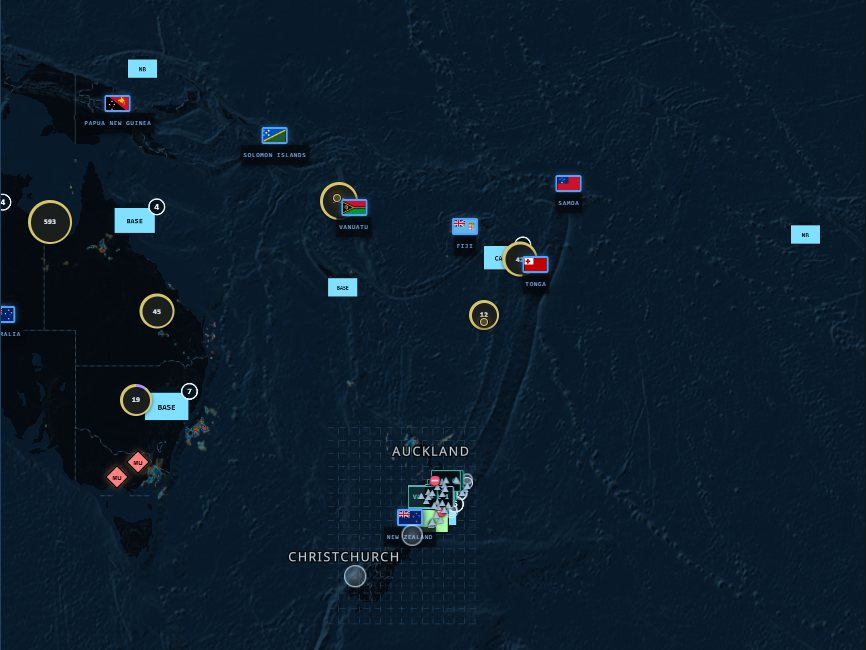
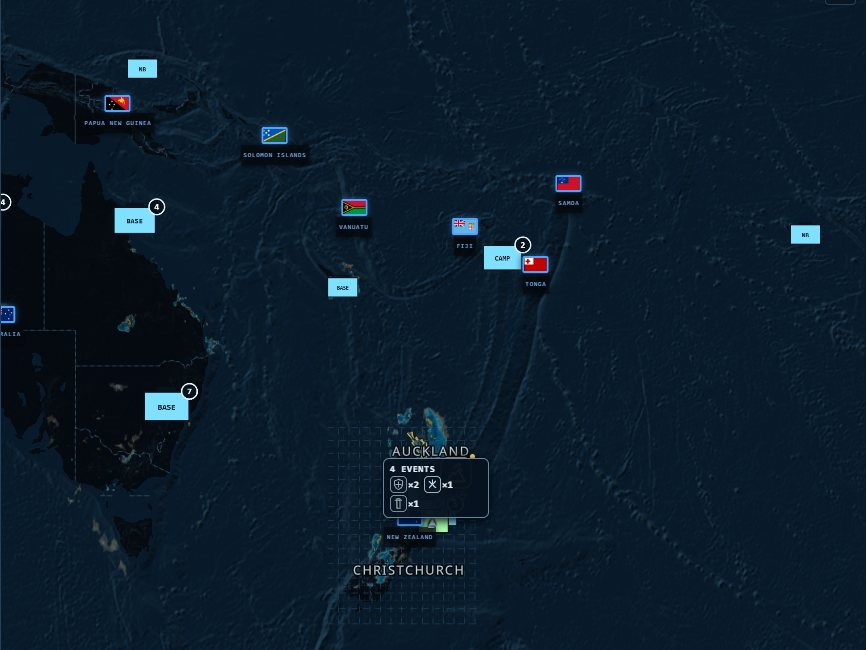
Update TREC case study with November 2026 changes and new screenshots
Refresh the dashboard, map and panel screenshots; add incident cluster
card, live election desk and customise-dashboard images; describe the
real-world-only map, significance filter, election desk, live TV
failover, screen-fitted layouts, USB installer and user guide.

diff --git a/projects/trec/index.html b/projects/trec/index.html
@@ -28,4 +28,4 @@
   "keywords": "Docker Compose (8-service stack), Meilisearch (hybrid full-text + vector search), Kiwix (offline ZIM/Wikipedia mirror), SearXNG (privacy-respecting meta-search), FastAPI + SQLite (countries capability API), Ollama / llama3.2:1b (local result summarization), Python (watchdog-based document ingest daemon), nginx (frontend + API proxy)",
   "about": "Research on a given topic normally means switching between three unconnected tools: a handful of local PDFs and Word docs, a reference site half-remembered, and a general web search to fill the gaps — none of which know about each other, and none guaranteed to work without a live internet connection. For research that's geopolitical or defence-adjacent, sending every query to a cloud search engine or AI service isn't a comfortable default either.",
   "result": "In daily use, one query returns local documents, offline-wiki hits, and live web results side by side, filterable by source; a mentioned country surfaces its capability card automatically; and a local model reads back a short summary of the top hits before any of them are opened individually. Dropping a new document into the inbox folder makes it searchable within seconds with no manual re-indexing step. It runs entirely on hardware already owned, with no account, no telemetry, and no functional difference between the wifi being on or off — visible below in a real query (\"Type 62 light tank maximum speed\") pulling an AI overview and offline-wiki hits, with the underlying Kiwix-served Wikipedia article open behind it."
-}</script> <main class="case-study" data-astro-cid-ovxcmftc> <header class="case-study-header" data-astro-cid-ovxcmftc><div class="header-badges" data-astro-cid-ovxcmftc><span class="status-badge status--ongoing" data-astro-cid-ovxcmftc>Ongoing</span></div><h1 data-astro-cid-ovxcmftc>TREC — Trentham Operations Monitor</h1><div class="case-study-meta" data-astro-cid-ovxcmftc><span class="meta-item" data-astro-cid-ovxcmftc>Creator — Public-data integration and frontend engineering</span><span class="meta-separator" data-astro-cid-ovxcmftc>·</span><span class="meta-item" data-astro-cid-ovxcmftc>2026</span><span class="meta-separator" data-astro-cid-ovxcmftc>·</span><span class="meta-item" data-astro-cid-ovxcmftc>5 min read</span></div><p class="outcome-summary" data-astro-cid-ovxcmftc>A New Zealand-first situational-awareness dashboard combining a geographic map, animated weather radar, earthquakes, road information, public defence reference locations, news, radio, webcams and selected international OSINT datasets.</p></header><section class="image-gallery" data-astro-cid-ovxcmftc><img src="/images/projects/trec-dashboard.jpg" alt="TREC dashboard: Trentham-centred map with weather, radar, earthquakes and event panels" loading="lazy" data-astro-cid-ovxcmftc><img src="/images/projects/trec-map-local.jpg" alt="Map at local (Trentham / Upper Hutt) level with grouped markers and radar" loading="lazy" data-astro-cid-ovxcmftc><img src="/images/projects/trec-map-nz.jpg" alt="Map at New Zealand level with grouped markers and radar" loading="lazy" data-astro-cid-ovxcmftc><img src="/images/projects/trec-map-pacific.jpg" alt="Map at Pacific level with international OSINT event markers" loading="lazy" data-astro-cid-ovxcmftc><img src="/images/projects/trec-map-global.jpg" alt="Map at global level with selected international datasets" loading="lazy" data-astro-cid-ovxcmftc><img src="/images/projects/trec-panels-media.jpg" alt="Media panels: live TV, NZ news video, radio and webcams" loading="lazy" data-astro-cid-ovxcmftc><img src="/images/projects/trec-panels-alerts.jpg" alt="Alerts panels: weather, earthquakes, road and NZDF news" loading="lazy" data-astro-cid-ovxcmftc><img src="/images/projects/trec-layers.jpg" alt="Layer manager: radar, weather, earthquakes, road, defence and OSINT toggles" loading="lazy" data-astro-cid-ovxcmftc><img src="/images/projects/trec-event-card.jpg" alt="Event detail card with source, timestamp and NZ relevance" loading="lazy" data-astro-cid-ovxcmftc></section><section class="case-study-section" data-astro-cid-ovxcmftc><h2 data-astro-cid-ovxcmftc>Overview</h2><p data-astro-cid-ovxcmftc>TREC is an unofficial, browser-based public information monitor focused on Trentham Military Camp and the Wellington region, with switchable New Zealand, Pacific and global views. Built on the open-source World Monitor project, it brings together public information that normally lives in separate news sites, weather services, hazard feeds and geospatial portals. The interface places the map at the centre and keeps the original sources, timestamps and data limitations visible. TREC is not an NZDF product, is not affiliated with NZDF, and does not expose operational military data.</p></section><section class="case-study-section" data-astro-cid-ovxcmftc><h2 data-astro-cid-ovxcmftc>Problem</h2><p data-astro-cid-ovxcmftc>Checking the situation around Wellington and the wider Indo-Pacific means bouncing between MetService, GeoNet, NZTA, news publishers, public webcams and geospatial portals. Their data arrives in different formats and update cycles. A list of headlines cannot show what is happening where; a map crowded with every dataset at once is just as hard to use. I wanted one geographic workspace that could switch between local and global context without implying that public reports were confirmed live operational information.</p></section><section class="case-study-section" data-astro-cid-ovxcmftc><h2 data-astro-cid-ovxcmftc>Constraints</h2><ul class="constraints-list" data-astro-cid-ovxcmftc><li data-astro-cid-ovxcmftc>Use only public, appropriately licensed information; no internal NZDF networks, live troop positions, readiness data or operational tasking.</li><li data-astro-cid-ovxcmftc>Integrate inconsistent sources such as RSS/Atom, CAP warnings, JSON and GeoJSON APIs, ArcGIS services, radar imagery and media embeds.</li><li data-astro-cid-ovxcmftc>Preserve accurate timestamps, source links and distinctions between live information, periodic snapshots, stale reports and historical records.</li><li data-astro-cid-ovxcmftc>Keep national and global maps usable despite dense collections of markers, using layers, clustering and scale-dependent symbology.</li><li data-astro-cid-ovxcmftc>Run as a browser application compatible with static GitHub Pages hosting; provider CORS restrictions and licence terms still apply.</li><li data-astro-cid-ovxcmftc>Respect broadcaster restrictions: a playable channel or clip on an official site is not automatically embeddable in TREC.</li></ul></section><section class="case-study-section" data-astro-cid-ovxcmftc><h2 data-astro-cid-ovxcmftc>Approach</h2><p data-astro-cid-ovxcmftc>I adapted World Monitor into a Trentham-oriented dashboard using a MapLibre geographic interface, NATO/APP-6-style symbols for publicly documented defence reference locations and separately styled civilian incidents. The layer manager offers local, New Zealand, Pacific and global contexts, with grouped markers that expand as the user zooms in. RainViewer supplies timestamped radar frames rendered as an automatically looping transparent overlay. Other panels bring in public weather conditions, GeoNet earthquake and volcanic information, road disruptions, NZ and international RSS news, radio and compatible public video feeds. I integrated selected public datasets from S2 Underground&#39;s Common Intelligence Picture through ArcGIS-backed services, retaining per-source attribution and freshness information. The application has been rebuilt and refined iteratively through production builds and browser tests; individual integrations remain subject to upstream availability.</p></section><section class="case-study-section" data-astro-cid-ovxcmftc><h2 data-astro-cid-ovxcmftc>Key Decisions</h2><div class="decisions-list" data-astro-cid-ovxcmftc><div class="decision-item" data-astro-cid-ovxcmftc><h3 class="decision-title" data-astro-cid-ovxcmftc>Make the map the organising interface, not just another panel</h3><div class="decision-reasoning" data-astro-cid-ovxcmftc><strong data-astro-cid-ovxcmftc>Reasoning:</strong><p data-astro-cid-ovxcmftc>The value comes from combining location, time and source provenance. A headline or earthquake report should link to its actual geography when that is supported by evidence, while national political stories should not acquire fictitious point locations just to appear on the map.</p></div><div class="decision-alternatives" data-astro-cid-ovxcmftc><strong data-astro-cid-ovxcmftc>Alternatives considered:</strong><ul class="constraints-list" data-astro-cid-ovxcmftc><li data-astro-cid-ovxcmftc>Treat news, weather and incidents as unrelated scrolling panels</li><li data-astro-cid-ovxcmftc>Geocode every mentioned place automatically, even when it is not the event location</li></ul></div></div><div class="decision-item" data-astro-cid-ovxcmftc><h3 class="decision-title" data-astro-cid-ovxcmftc>Separate defence reference symbols from live incident reporting</h3><div class="decision-reasoning" data-astro-cid-ovxcmftc><strong data-astro-cid-ovxcmftc>Reasoning:</strong><p data-astro-cid-ovxcmftc>Publicly documented home garrisons are reference information, not live force tracking. Defence locations use military-style symbols only where appropriate, while weather, emergencies, road events and news retain distinct civilian event markers. The design avoids implying that static public reference data reveals deployments or readiness.</p></div><div class="decision-alternatives" data-astro-cid-ovxcmftc><strong data-astro-cid-ovxcmftc>Alternatives considered:</strong><ul class="constraints-list" data-astro-cid-ovxcmftc><li data-astro-cid-ovxcmftc>Use identical NATO symbols for every event</li><li data-astro-cid-ovxcmftc>Display all public facility markers as active operational positions</li></ul></div></div><div class="decision-item" data-astro-cid-ovxcmftc><h3 class="decision-title" data-astro-cid-ovxcmftc>Animate genuine radar observations over the basemap</h3><div class="decision-reasoning" data-astro-cid-ovxcmftc><strong data-astro-cid-ovxcmftc>Reasoning:</strong><p data-astro-cid-ovxcmftc>The weather layer uses timestamped RainViewer frames with transparency and geographic alignment instead of a video widget or an artificially drifting static image. Rain and warning data remain separate: radar shows observed precipitation, while warnings come from the issuing authority.</p></div><div class="decision-alternatives" data-astro-cid-ovxcmftc><strong data-astro-cid-ovxcmftc>Alternatives considered:</strong><ul class="constraints-list" data-astro-cid-ovxcmftc><li data-astro-cid-ovxcmftc>Embed a weather website in a player</li><li data-astro-cid-ovxcmftc>Move a static rain image to imitate animation</li></ul></div></div><div class="decision-item" data-astro-cid-ovxcmftc><h3 class="decision-title" data-astro-cid-ovxcmftc>Treat each data provider&#39;s freshness and permissions as part of the feature</h3><div class="decision-reasoning" data-astro-cid-ovxcmftc><strong data-astro-cid-ovxcmftc>Reasoning:</strong><p data-astro-cid-ovxcmftc>A successful request does not prove that its contents are real-time. Feed status, last updates, attribution, temporary outages and embeddability limits have to be visible; unsupported streams fall back to their official publishers rather than being presented as broken or silently rehosted.</p></div><div class="decision-alternatives" data-astro-cid-ovxcmftc><strong data-astro-cid-ovxcmftc>Alternatives considered:</strong><ul class="constraints-list" data-astro-cid-ovxcmftc><li data-astro-cid-ovxcmftc>Mark every responding feed LIVE</li><li data-astro-cid-ovxcmftc>Proxy or redistribute broadcaster media without permission</li></ul></div></div><div class="decision-item" data-astro-cid-ovxcmftc><h3 class="decision-title" data-astro-cid-ovxcmftc>Prioritise information density without sacrificing legibility</h3><div class="decision-reasoning" data-astro-cid-ovxcmftc><strong data-astro-cid-ovxcmftc>Reasoning:</strong><p data-astro-cid-ovxcmftc>The same map must work at Trentham and world scale. Geographic clustering, category toggles, zoom-dependent labels, resizable panels and dedicated media views help control clutter. I found that showing everything simultaneously was less useful than showing fewer, better-explained signals.</p></div><div class="decision-alternatives" data-astro-cid-ovxcmftc><strong data-astro-cid-ovxcmftc>Alternatives considered:</strong><ul class="constraints-list" data-astro-cid-ovxcmftc><li data-astro-cid-ovxcmftc>Render every icon and label at every zoom</li><li data-astro-cid-ovxcmftc>Hide details permanently rather than make them accessible on demand</li></ul></div></div></div></section><section class="case-study-section" data-astro-cid-ovxcmftc><h2 data-astro-cid-ovxcmftc>Tech Stack</h2><ul class="constraints-list" data-astro-cid-ovxcmftc><li data-astro-cid-ovxcmftc>TypeScript and React</li><li data-astro-cid-ovxcmftc>Vite</li><li data-astro-cid-ovxcmftc>MapLibre GL JS</li><li data-astro-cid-ovxcmftc>GeoJSON and ArcGIS REST services</li><li data-astro-cid-ovxcmftc>RainViewer radar imagery</li><li data-astro-cid-ovxcmftc>RSS/Atom and public JSON APIs</li><li data-astro-cid-ovxcmftc>GeoNet, Open-Meteo, MetService warnings and NZTA public data</li><li data-astro-cid-ovxcmftc>Browser-based audio/video embeds</li><li data-astro-cid-ovxcmftc>GitHub Pages-compatible static frontend</li></ul></section><section class="case-study-section" data-astro-cid-ovxcmftc><h2 data-astro-cid-ovxcmftc>Result & Impact</h2><p class="impact-qualitative" data-astro-cid-ovxcmftc>The working prototype places New Zealand weather, geological events, public news and regional infrastructure context beside selected international datasets in one interface. Its map can shift from Trentham to global views while radar and public event layers remain independently controllable. News, public webcams, live TV, a continuously playing NZ news video channel, NZDF official social updates and radio have been integrated as separate, source-aware panels. The project is still ongoing: source availability, permissions, the volume of global event data and reliable geographic matching are active engineering challenges rather than solved problems.</p></section><section class="case-study-section" data-astro-cid-ovxcmftc><h2 data-astro-cid-ovxcmftc>Learnings</h2><ul class="constraints-list" data-astro-cid-ovxcmftc><li data-astro-cid-ovxcmftc>A large number of sources is only useful when the interface explains which information is current, approximate or historical.</li><li data-astro-cid-ovxcmftc>Marker clustering, collision handling and symbol hierarchy have to be designed together; simply adding counts to existing icons makes congestion worse.</li><li data-astro-cid-ovxcmftc>Browser restrictions, CORS, licensing and publisher embed policies are major system constraints, not implementation details.</li><li data-astro-cid-ovxcmftc>Building a dashboard from public data requires careful distinction between facts, inferred relevance and official assessments.</li><li data-astro-cid-ovxcmftc>Iterative browser testing at normal and ultrawide resolutions catches layout failures that a successful TypeScript build misses.</li></ul></section><section class="case-study-content" data-astro-cid-ovxcmftc><h2>What it shows</h2><p>The map centres on <strong>Trentham / Upper Hutt</strong> and switches between local, New Zealand, Pacific and global perspectives. Map layers include animated radar, geological hazards, public defence references, infrastructure, and selected CIP intelligence data. Public news, weather and media appear alongside their source and feed status. NZ Police releases and NZ news headlines are placed on the map at town level, labelled approximate.</p><h2>Provenance and operational boundaries</h2><p>TREC is an independent <strong>unofficial public-data demonstration</strong>, not affiliated with or endorsed by NZDF. Public home garrisons do not represent active unit positions or readiness. Individual feeds may be delayed, historical or unavailable, and broadcaster embeds remain subject to the publisher's terms.</p><h2>Acknowledgements</h2><p>Adapted from <a href="https://github.com/koala73/worldmonitor">World Monitor</a>. Some selected public geospatial data comes from <a href="https://www.arcgis.com/apps/mapviewer/index.html?webmap=204a59b01f4443cd96718796fd102c00">S2 Underground's Common Intelligence Picture</a> and its underlying data publishers, with their own attribution and usage terms.</p></section> <!-- Related Content -->  <div class="back-link-container" data-astro-cid-c4cqltiy> <a href="/projects" class="back-link" data-astro-cid-c4cqltiy> <svg class="back-icon" width="16" height="16" viewBox="0 0 24 24" fill="currentColor" xmlns="http://www.w3.org/2000/svg" data-astro-cid-c4cqltiy> <path d="M9.70711 17.2929C10.0976 17.6834 10.0976 18.3166 9.70711 18.7071C9.31658 19.0976 8.68342 19.0976 8.29289 18.7071L2.29289 12.7071C1.90237 12.3166 1.90237 11.6834 2.29289 11.2929L8.29289 5.29289C8.68342 4.90237 9.31658 4.90237 9.70711 5.29289C10.0976 5.68342 10.0976 6.31658 9.70711 6.70711L5.41421 11L21 11C21.5523 11 22 11.4477 22 12C22 12.5523 21.5523 13 21 13L5.41422 13L9.70711 17.2929Z" data-astro-cid-c4cqltiy></path> </svg> All projects </a> </div>  </main> <button class="scroll-to-top" type="button" aria-label="Scroll to top" title="Scroll to top" data-astro-cid-73562bqz> <svg width="20" height="20" viewBox="0 0 24 24" fill="none" stroke="currentColor" stroke-width="2" stroke-linecap="round" stroke-linejoin="round" data-astro-cid-73562bqz> <polyline points="18 15 12 9 6 15" data-astro-cid-73562bqz></polyline> </svg> </button>  <script type="module">function i(){const o=document.querySelector(".scroll-to-top");if(!o)return;const e=300;function t(){o&&(window.scrollY>e?o.classList.add("is-visible"):o.classList.remove("is-visible"))}function s(){window.scrollTo({top:0,behavior:"smooth"})}window.addEventListener("scroll",t,{passive:!0}),o.addEventListener("click",s),t()}i();document.addEventListener("astro:after-swap",i);</script>   </main> <footer class="site-footer" data-astro-cid-sz7xmlte> <div class="footer-container" data-astro-cid-sz7xmlte> <span class="copyright" data-astro-cid-sz7xmlte>© 2026 Ben Haddley</span> <div class="footer-social" data-astro-cid-sz7xmlte>  <a href="https://github.com/BenHaddley" target="_blank" rel="noopener noreferrer" data-astro-cid-sz7xmlte> Github </a>  </div> </div> </footer>  </body></html>
+}</script> <main class="case-study" data-astro-cid-ovxcmftc> <header class="case-study-header" data-astro-cid-ovxcmftc><div class="header-badges" data-astro-cid-ovxcmftc><span class="status-badge status--ongoing" data-astro-cid-ovxcmftc>Ongoing</span></div><h1 data-astro-cid-ovxcmftc>TREC — Trentham Operations Monitor</h1><div class="case-study-meta" data-astro-cid-ovxcmftc><span class="meta-item" data-astro-cid-ovxcmftc>Creator — Public-data integration and frontend engineering</span><span class="meta-separator" data-astro-cid-ovxcmftc>·</span><span class="meta-item" data-astro-cid-ovxcmftc>2026</span><span class="meta-separator" data-astro-cid-ovxcmftc>·</span><span class="meta-item" data-astro-cid-ovxcmftc>5 min read</span></div><p class="outcome-summary" data-astro-cid-ovxcmftc>A New Zealand-first situational-awareness dashboard combining a geographic map, animated weather radar, earthquakes, road information, public defence reference locations, news, radio, webcams and selected international OSINT datasets, plus a global election desk. It shows real-world public data only and ships with a 30-page illustrated user guide.</p></header><section class="image-gallery" data-astro-cid-ovxcmftc><img src="/images/projects/trec-dashboard.jpg" alt="TREC dashboard: Trentham-centred map with weather, radar, earthquakes and event panels" loading="lazy" data-astro-cid-ovxcmftc><img src="/images/projects/trec-map-local.jpg" alt="Map at local (Trentham / Upper Hutt) level with grouped markers and radar" loading="lazy" data-astro-cid-ovxcmftc><img src="/images/projects/trec-map-nz.jpg" alt="Map at New Zealand level with grouped markers and radar" loading="lazy" data-astro-cid-ovxcmftc><img src="/images/projects/trec-map-pacific.jpg" alt="Map at Pacific level with international OSINT event markers" loading="lazy" data-astro-cid-ovxcmftc><img src="/images/projects/trec-map-global.jpg" alt="Map at global level with selected international datasets" loading="lazy" data-astro-cid-ovxcmftc><img src="/images/projects/trec-panels-media.jpg" alt="Global live news TV with automatic source failover, above the live cameras panel" loading="lazy" data-astro-cid-ovxcmftc><img src="/images/projects/trec-panels-alerts.jpg" alt="NZ radio and NZ news panels in the default operations layout" loading="lazy" data-astro-cid-ovxcmftc><img src="/images/projects/trec-layers.jpg" alt="Layer manager: radar, weather, earthquakes, road, defence and OSINT toggles" loading="lazy" data-astro-cid-ovxcmftc><img src="/images/projects/trec-cluster-card.png" alt="Incident cluster card: incident count, type mix, most serious item, time span and newest-first list with places" loading="lazy" data-astro-cid-ovxcmftc><img src="/images/projects/trec-election-desk.jpg" alt="Live election desk: hemicycle, seat bar with majority line, party table, coalition builder and key dates, labelled with its official source" loading="lazy" data-astro-cid-ovxcmftc><img src="/images/projects/trec-customise.jpg" alt="Customise dashboard: show, hide, reorder and save panels" loading="lazy" data-astro-cid-ovxcmftc></section><section class="case-study-section" data-astro-cid-ovxcmftc><h2 data-astro-cid-ovxcmftc>Overview</h2><p data-astro-cid-ovxcmftc>TREC is an unofficial, browser-based public information monitor focused on Trentham Military Camp and the Wellington region, with switchable New Zealand, Pacific and global views. Built on the open-source World Monitor project, it brings together public information that normally lives in separate news sites, weather services, hazard feeds and geospatial portals. The interface places the map at the centre and keeps the original sources, timestamps and data limitations visible. TREC is not an NZDF product, is not affiliated with NZDF, and does not expose operational military data.</p></section><section class="case-study-section" data-astro-cid-ovxcmftc><h2 data-astro-cid-ovxcmftc>Problem</h2><p data-astro-cid-ovxcmftc>Checking the situation around Wellington and the wider Indo-Pacific means bouncing between MetService, GeoNet, NZTA, news publishers, public webcams and geospatial portals. Their data arrives in different formats and update cycles. A list of headlines cannot show what is happening where; a map crowded with every dataset at once is just as hard to use. I wanted one geographic workspace that could switch between local and global context without implying that public reports were confirmed live operational information.</p></section><section class="case-study-section" data-astro-cid-ovxcmftc><h2 data-astro-cid-ovxcmftc>Constraints</h2><ul class="constraints-list" data-astro-cid-ovxcmftc><li data-astro-cid-ovxcmftc>Use only public, appropriately licensed information; no internal NZDF networks, live troop positions, readiness data or operational tasking.</li><li data-astro-cid-ovxcmftc>Integrate inconsistent sources such as RSS/Atom, CAP warnings, JSON and GeoJSON APIs, ArcGIS services, radar imagery and media embeds.</li><li data-astro-cid-ovxcmftc>Preserve accurate timestamps, source links and distinctions between live information, periodic snapshots, stale reports and historical records.</li><li data-astro-cid-ovxcmftc>Keep national and global maps usable despite dense collections of markers, using layers, clustering and scale-dependent symbology.</li><li data-astro-cid-ovxcmftc>Run as a browser application compatible with static GitHub Pages hosting; provider CORS restrictions and licence terms still apply.</li><li data-astro-cid-ovxcmftc>Respect broadcaster restrictions: a playable channel or clip on an official site is not automatically embeddable in TREC.</li></ul></section><section class="case-study-section" data-astro-cid-ovxcmftc><h2 data-astro-cid-ovxcmftc>Approach</h2><p data-astro-cid-ovxcmftc>I adapted World Monitor into a Trentham-oriented dashboard using a MapLibre geographic interface, NATO/APP-6-style symbols for publicly documented defence reference locations and separately styled civilian incidents. The layer manager offers local, New Zealand, Pacific and global contexts, with grouped markers that expand as the user zooms in. RainViewer supplies timestamped radar frames rendered as an automatically looping transparent overlay. Other panels bring in public weather conditions, GeoNet earthquake and volcanic information, road disruptions, NZ and international RSS news, radio and compatible public video feeds. I integrated selected public datasets from S2 Underground&#39;s Common Intelligence Picture through ArcGIS-backed services, retaining per-source attribution and freshness information. The application has been rebuilt and refined iteratively through production builds and browser tests; individual integrations remain subject to upstream availability.</p></section><section class="case-study-section" data-astro-cid-ovxcmftc><h2 data-astro-cid-ovxcmftc>Key Decisions</h2><div class="decisions-list" data-astro-cid-ovxcmftc><div class="decision-item" data-astro-cid-ovxcmftc><h3 class="decision-title" data-astro-cid-ovxcmftc>Make the map the organising interface, not just another panel</h3><div class="decision-reasoning" data-astro-cid-ovxcmftc><strong data-astro-cid-ovxcmftc>Reasoning:</strong><p data-astro-cid-ovxcmftc>The value comes from combining location, time and source provenance. A headline or earthquake report should link to its actual geography when that is supported by evidence, while national political stories should not acquire fictitious point locations just to appear on the map.</p></div><div class="decision-alternatives" data-astro-cid-ovxcmftc><strong data-astro-cid-ovxcmftc>Alternatives considered:</strong><ul class="constraints-list" data-astro-cid-ovxcmftc><li data-astro-cid-ovxcmftc>Treat news, weather and incidents as unrelated scrolling panels</li><li data-astro-cid-ovxcmftc>Geocode every mentioned place automatically, even when it is not the event location</li></ul></div></div><div class="decision-item" data-astro-cid-ovxcmftc><h3 class="decision-title" data-astro-cid-ovxcmftc>Separate defence reference symbols from live incident reporting</h3><div class="decision-reasoning" data-astro-cid-ovxcmftc><strong data-astro-cid-ovxcmftc>Reasoning:</strong><p data-astro-cid-ovxcmftc>Publicly documented home garrisons are reference information, not live force tracking. Defence locations use military-style symbols only where appropriate, while weather, emergencies, road events and news retain distinct civilian event markers. The design avoids implying that static public reference data reveals deployments or readiness.</p></div><div class="decision-alternatives" data-astro-cid-ovxcmftc><strong data-astro-cid-ovxcmftc>Alternatives considered:</strong><ul class="constraints-list" data-astro-cid-ovxcmftc><li data-astro-cid-ovxcmftc>Use identical NATO symbols for every event</li><li data-astro-cid-ovxcmftc>Display all public facility markers as active operational positions</li></ul></div></div><div class="decision-item" data-astro-cid-ovxcmftc><h3 class="decision-title" data-astro-cid-ovxcmftc>Animate genuine radar observations over the basemap</h3><div class="decision-reasoning" data-astro-cid-ovxcmftc><strong data-astro-cid-ovxcmftc>Reasoning:</strong><p data-astro-cid-ovxcmftc>The weather layer uses timestamped RainViewer frames with transparency and geographic alignment instead of a video widget or an artificially drifting static image. Rain and warning data remain separate: radar shows observed precipitation, while warnings come from the issuing authority.</p></div><div class="decision-alternatives" data-astro-cid-ovxcmftc><strong data-astro-cid-ovxcmftc>Alternatives considered:</strong><ul class="constraints-list" data-astro-cid-ovxcmftc><li data-astro-cid-ovxcmftc>Embed a weather website in a player</li><li data-astro-cid-ovxcmftc>Move a static rain image to imitate animation</li></ul></div></div><div class="decision-item" data-astro-cid-ovxcmftc><h3 class="decision-title" data-astro-cid-ovxcmftc>Treat each data provider&#39;s freshness and permissions as part of the feature</h3><div class="decision-reasoning" data-astro-cid-ovxcmftc><strong data-astro-cid-ovxcmftc>Reasoning:</strong><p data-astro-cid-ovxcmftc>A successful request does not prove that its contents are real-time. Feed status, last updates, attribution, temporary outages and embeddability limits have to be visible; unsupported streams fall back to their official publishers rather than being presented as broken or silently rehosted.</p></div><div class="decision-alternatives" data-astro-cid-ovxcmftc><strong data-astro-cid-ovxcmftc>Alternatives considered:</strong><ul class="constraints-list" data-astro-cid-ovxcmftc><li data-astro-cid-ovxcmftc>Mark every responding feed LIVE</li><li data-astro-cid-ovxcmftc>Proxy or redistribute broadcaster media without permission</li></ul></div></div><div class="decision-item" data-astro-cid-ovxcmftc><h3 class="decision-title" data-astro-cid-ovxcmftc>Prioritise information density without sacrificing legibility</h3><div class="decision-reasoning" data-astro-cid-ovxcmftc><strong data-astro-cid-ovxcmftc>Reasoning:</strong><p data-astro-cid-ovxcmftc>The same map must work at Trentham and world scale. Geographic clustering, category toggles, zoom-dependent labels, resizable panels and dedicated media views help control clutter. I found that showing everything simultaneously was less useful than showing fewer, better-explained signals.</p></div><div class="decision-alternatives" data-astro-cid-ovxcmftc><strong data-astro-cid-ovxcmftc>Alternatives considered:</strong><ul class="constraints-list" data-astro-cid-ovxcmftc><li data-astro-cid-ovxcmftc>Render every icon and label at every zoom</li><li data-astro-cid-ovxcmftc>Hide details permanently rather than make them accessible on demand</li></ul></div></div></div></section><section class="case-study-section" data-astro-cid-ovxcmftc><h2 data-astro-cid-ovxcmftc>Tech Stack</h2><ul class="constraints-list" data-astro-cid-ovxcmftc><li data-astro-cid-ovxcmftc>TypeScript and React</li><li data-astro-cid-ovxcmftc>Vite</li><li data-astro-cid-ovxcmftc>MapLibre GL JS</li><li data-astro-cid-ovxcmftc>GeoJSON and ArcGIS REST services</li><li data-astro-cid-ovxcmftc>RainViewer radar imagery</li><li data-astro-cid-ovxcmftc>RSS/Atom and public JSON APIs</li><li data-astro-cid-ovxcmftc>GeoNet, Open-Meteo, MetService warnings and NZTA public data</li><li data-astro-cid-ovxcmftc>Browser-based audio/video embeds</li><li data-astro-cid-ovxcmftc>GitHub Pages-compatible static frontend</li></ul></section><section class="case-study-section" data-astro-cid-ovxcmftc><h2 data-astro-cid-ovxcmftc>Result & Impact</h2><p class="impact-qualitative" data-astro-cid-ovxcmftc>The working prototype places New Zealand weather, geological events, public news and regional infrastructure context beside selected international datasets in one interface. Its map can shift from Trentham to global views while radar and public event layers remain independently controllable. News, public webcams, live TV, a continuously playing NZ news video channel, NZDF official social updates and radio have been integrated as separate, source-aware panels. The project is still ongoing: source availability, permissions, the volume of global event data and reliable geographic matching are active engineering challenges rather than solved problems.</p><p class="impact-qualitative" data-astro-cid-ovxcmftc>The November 2026 update removed every demonstration overlay, so the map shows real-world public information only, with news reports placed approximately and labelled REPORTED. It also added a significance filter that keeps routine minor earthquakes off the map, redesigned incident cluster cards and a newspaper-style live election desk. Live TV now fails over automatically across more official broadcaster streams, panels fit the screen, and a one-file Windows installer/upgrader handles USB deployment.</p></section><section class="case-study-section" data-astro-cid-ovxcmftc><h2 data-astro-cid-ovxcmftc>Learnings</h2><ul class="constraints-list" data-astro-cid-ovxcmftc><li data-astro-cid-ovxcmftc>A large number of sources is only useful when the interface explains which information is current, approximate or historical.</li><li data-astro-cid-ovxcmftc>Marker clustering, collision handling and symbol hierarchy have to be designed together; simply adding counts to existing icons makes congestion worse.</li><li data-astro-cid-ovxcmftc>Browser restrictions, CORS, licensing and publisher embed policies are major system constraints, not implementation details.</li><li data-astro-cid-ovxcmftc>Building a dashboard from public data requires careful distinction between facts, inferred relevance and official assessments.</li><li data-astro-cid-ovxcmftc>Iterative browser testing at normal and ultrawide resolutions catches layout failures that a successful TypeScript build misses.</li></ul></section><section class="case-study-content" data-astro-cid-ovxcmftc><h2>What it shows</h2><p>The map centres on <strong>Trentham / Upper Hutt</strong> and switches between local, New Zealand, Pacific and global perspectives. Map layers include animated radar, geological hazards, public defence references, infrastructure, and selected CIP intelligence data. Public news, weather and media appear alongside their source and feed status. NZ Police releases and NZ news headlines are placed on the map at town level, labelled approximate.</p><h2>Recent updates (November 2026)</h2><ul><li><strong>Real-world data only</strong>: demo overlays removed, a REAL-WORLD DATA ONLY badge on the map, and news events mapped approximately in New Zealand and worldwide.</li><li><strong>Significant events</strong>: earthquakes shown only at M6.5+ worldwide or M5.5+ (or strongly felt) in New Zealand, and volcanic alert level 2+. Police, crash and security incidents stay visible.</li><li><strong>Incident clusters</strong>: cards show the count, newest age, type mix, most serious item, time span in NZ time, and a newest-first list with places and summaries.</li><li><strong>Election desk</strong>: a newspaper-style results card for every live election. It uses official counts only and says so when a count is not available, showing the previous official result clearly labelled.</li><li><strong>Live TV failover</strong>: more official broadcaster streams. Refused, region-restricted or stalled sources are skipped automatically after 30 seconds.</li><li><strong>Layouts</strong>: panels fit the screen by priority, video panels keep 16:9, and layouts can be customised and saved. Map Focus shows the map alone.</li><li><strong>Deployment</strong>: one INSTALL-OR-UPGRADE script finds Node.js (or uses a portable copy), finds existing installs, copies only changed files and creates a desktop shortcut.</li></ul><h2>Provenance and operational boundaries</h2><p>TREC is an independent <strong>unofficial public-data demonstration</strong>, not affiliated with or endorsed by NZDF. Public home garrisons do not represent active unit positions or readiness. Individual feeds may be delayed, historical or unavailable, and broadcaster embeds remain subject to the publisher's terms.</p><h2>Acknowledgements</h2><p>Adapted from <a href="https://github.com/koala73/worldmonitor">World Monitor</a>. Some selected public geospatial data comes from <a href="https://www.arcgis.com/apps/mapviewer/index.html?webmap=204a59b01f4443cd96718796fd102c00">S2 Underground's Common Intelligence Picture</a> and its underlying data publishers, with their own attribution and usage terms.</p></section> <!-- Related Content -->  <div class="back-link-container" data-astro-cid-c4cqltiy> <a href="/projects" class="back-link" data-astro-cid-c4cqltiy> <svg class="back-icon" width="16" height="16" viewBox="0 0 24 24" fill="currentColor" xmlns="http://www.w3.org/2000/svg" data-astro-cid-c4cqltiy> <path d="M9.70711 17.2929C10.0976 17.6834 10.0976 18.3166 9.70711 18.7071C9.31658 19.0976 8.68342 19.0976 8.29289 18.7071L2.29289 12.7071C1.90237 12.3166 1.90237 11.6834 2.29289 11.2929L8.29289 5.29289C8.68342 4.90237 9.31658 4.90237 9.70711 5.29289C10.0976 5.68342 10.0976 6.31658 9.70711 6.70711L5.41421 11L21 11C21.5523 11 22 11.4477 22 12C22 12.5523 21.5523 13 21 13L5.41422 13L9.70711 17.2929Z" data-astro-cid-c4cqltiy></path> </svg> All projects </a> </div>  </main> <button class="scroll-to-top" type="button" aria-label="Scroll to top" title="Scroll to top" data-astro-cid-73562bqz> <svg width="20" height="20" viewBox="0 0 24 24" fill="none" stroke="currentColor" stroke-width="2" stroke-linecap="round" stroke-linejoin="round" data-astro-cid-73562bqz> <polyline points="18 15 12 9 6 15" data-astro-cid-73562bqz></polyline> </svg> </button>  <script type="module">function i(){const o=document.querySelector(".scroll-to-top");if(!o)return;const e=300;function t(){o&&(window.scrollY>e?o.classList.add("is-visible"):o.classList.remove("is-visible"))}function s(){window.scrollTo({top:0,behavior:"smooth"})}window.addEventListener("scroll",t,{passive:!0}),o.addEventListener("click",s),t()}i();document.addEventListener("astro:after-swap",i);</script>   </main> <footer class="site-footer" data-astro-cid-sz7xmlte> <div class="footer-container" data-astro-cid-sz7xmlte> <span class="copyright" data-astro-cid-sz7xmlte>© 2026 Ben Haddley</span> <div class="footer-social" data-astro-cid-sz7xmlte>  <a href="https://github.com/BenHaddley" target="_blank" rel="noopener noreferrer" data-astro-cid-sz7xmlte> Github </a>  </div> </div> </footer>  </body></html>
